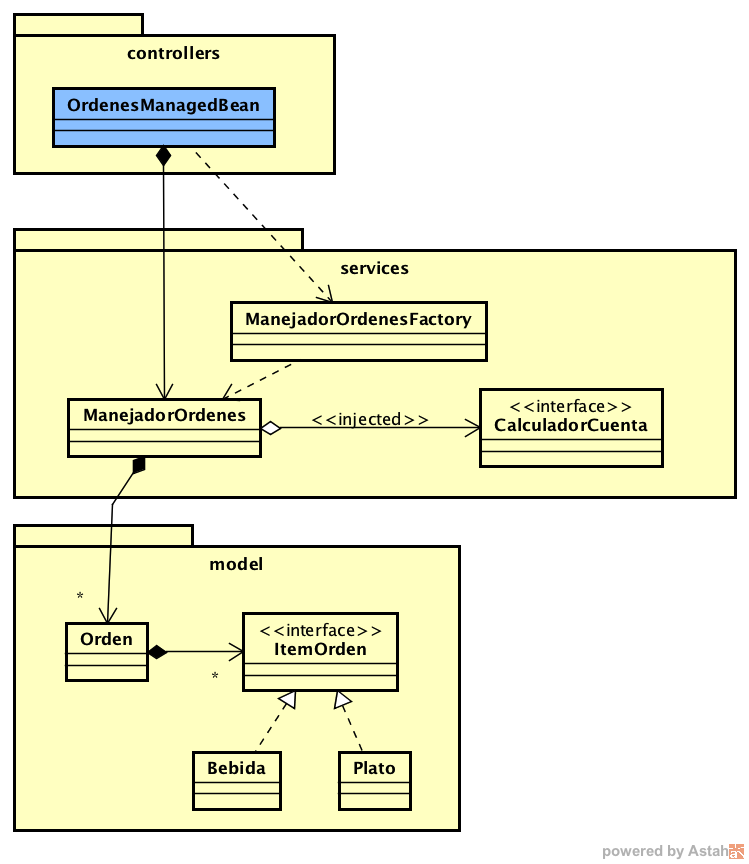
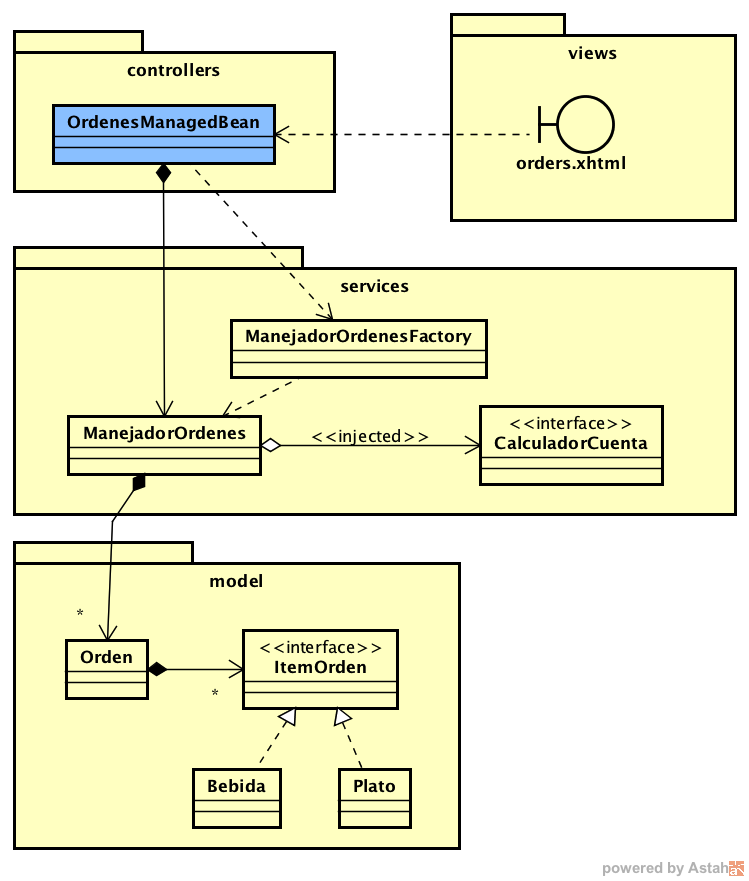
first commit

Changed region(s): [[0.0, 0.0, 0.9826, 0.9688], [0.5834, 0.0, 0.9826, 0.25]]

diff --git a/README.md b/README.md
@@ -178,9 +178,9 @@ Para esto, clone el proyecto de ESTE respositorio, el cual ya tiene la configura
 3. Se debe poder seleccionar una de las ordenes. Al hacer esto, en otra parte de la interfaz se debe:
     - Mostrar el detalle de los ítems asociados a la orden.
     - Mostrar el valor actual total de la orden.
-    - Ofrecer una opción para agregar un nuevo ítem a la cuenta. Por ahora el modelo no contempla un catálogo de platos, por lo que se deben ingresar los detalles cada vez: tipo de producto (bebida, plato), nombre y precio. Al agregar cada ítem, se debería recalcular y mostrar automáticamente el nuevo valor de la cuenta.
+    - Ofrecer una opción para agregar un nuevo ítem a la cuenta. Por ahora el modelo no contempla un catálogo de platos (ya que no hay una capa de persistencia), por lo que se deben ingresar los detalles cada vez: tipo de producto (bebida, plato), nombre y precio. Al agregar cada ítem, se debería recalcular y mostrar automáticamente el nuevo valor de la cuenta.
     
-Para hacer esto revise:
+Para lo anterior revise:
 
 Sección 3.33 del manual de PrimeFaces, en especial la página 159 que se
 refiere a cómo capturar la selección de una tabla.
@@ -196,5 +196,6 @@ manual, o a través de las demostraciones disponibles en:
 
 Para el ejercicio anterior tenga también en cuenta:
 
+- para la organización de las clases, use el esquema de paquetes del diagrama anterior.
 - La aplicación debería cambiar de comportamiento cuando se cambie la configuración del Contenedor Guice.
 - El esquema de pruebas desarrollado debería seguir funcionando.
